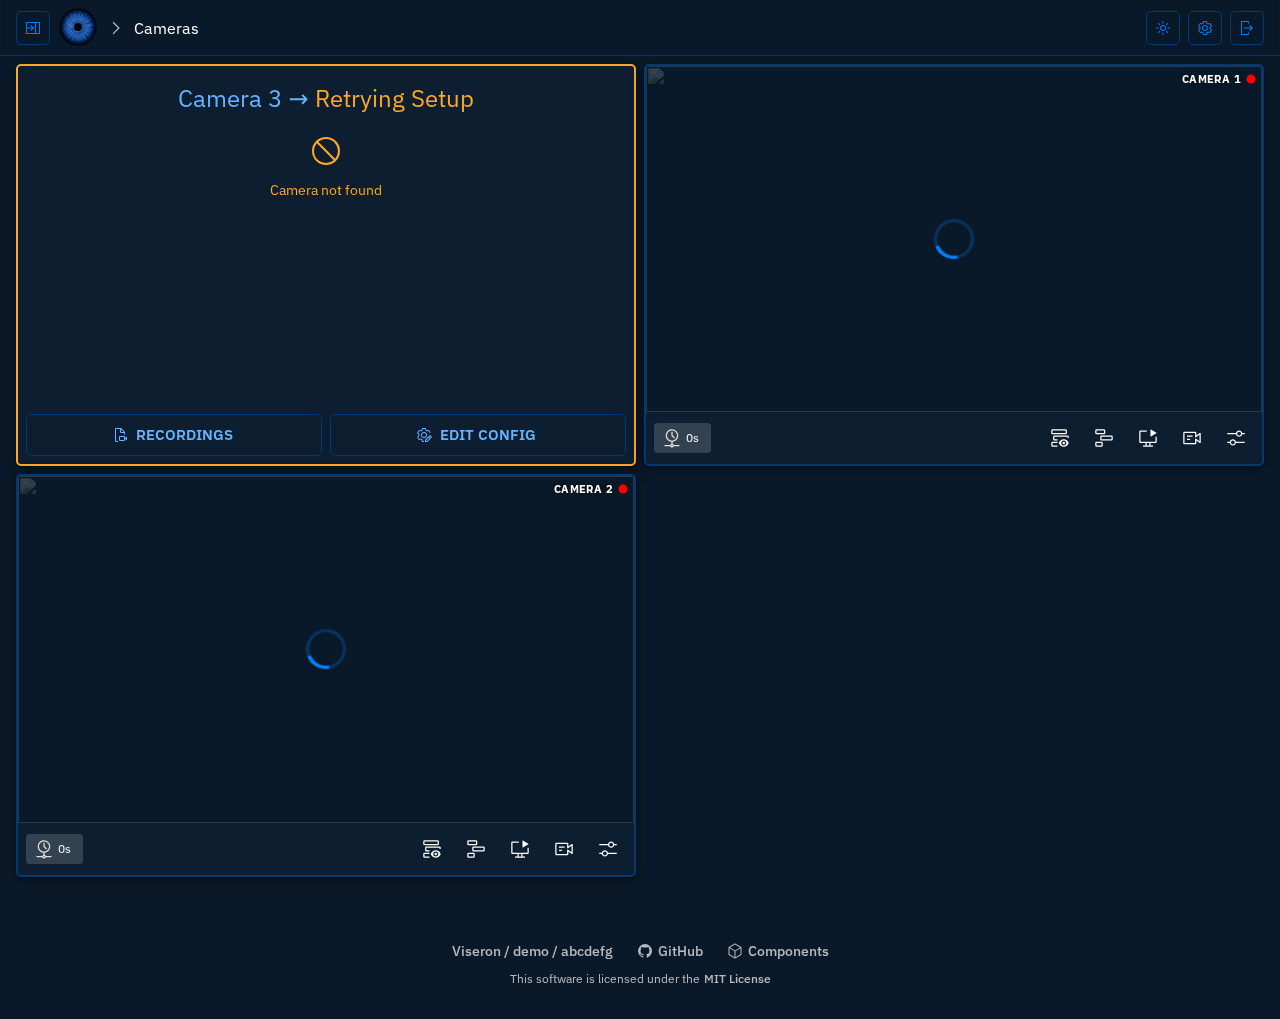
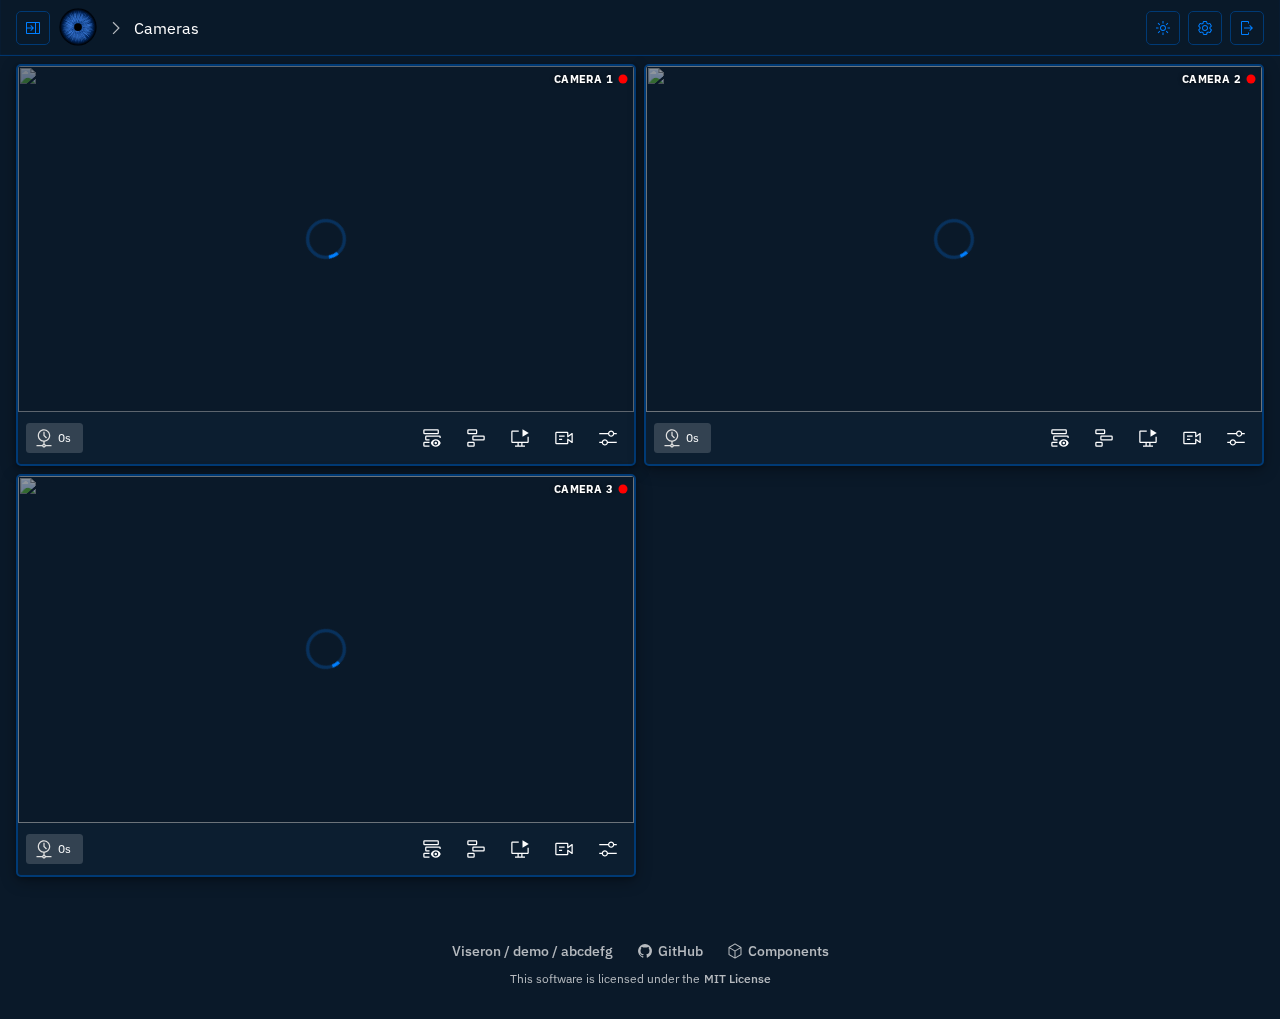
playwright screenshot recordings page

diff --git a/frontend/tests/mocks/handlers.ts b/frontend/tests/mocks/handlers.ts
@@ -66,7 +66,7 @@ export const handlers = [
         name: "Camera 1",
         width: 1920,
         height: 1080,
-        access_token: "testtoken1",
+        access_token: "testtoken",
         mainstream: {
           width: 1920,
           height: 1080,
@@ -87,7 +87,28 @@ export const handlers = [
         name: "Camera 2",
         width: 1920,
         height: 1080,
-        access_token: "testtoken2",
+        access_token: "testtoken",
+        mainstream: {
+          width: 1920,
+          height: 1080,
+        },
+        still_image: {
+          refresh_interval: 5,
+          available: true,
+          width: 1920,
+          height: 1080,
+        },
+        failed: false,
+        is_on: true,
+        live_stream_available: true,
+        connected: true,
+      },
+      camera3: {
+        identifier: "camera3",
+        name: "Camera 3",
+        width: 1920,
+        height: 1080,
+        access_token: "testtoken",
         mainstream: {
           width: 1920,
           height: 1080,
@@ -106,25 +127,9 @@ export const handlers = [
     };
     return HttpResponse.json(cameras, { status: 200 });
   }),
-  http.get(`${API_BASE_URL}/cameras/failed`, () => {
-    const cameras: types.FailedCameras = {
-      camera3: {
-        identifier: "camera3",
-        name: "Camera 3",
-        width: 1920,
-        height: 1080,
-        mainstream: {
-          width: 1920,
-          height: 1080,
-        },
-        live_stream_available: true,
-        error: "Camera not found",
-        retrying: true,
-        failed: true,
-      },
-    };
-    return HttpResponse.json(cameras, { status: 200 });
-  }),
+  http.get(`${API_BASE_URL}/cameras/failed`, () =>
+    HttpResponse.json({}, { status: 200 }),
+  ),
   // Single camera info
   http.get(`${API_BASE_URL}/camera/camera1`, () => {
     const camera: types.Camera = {
@@ -132,7 +137,7 @@ export const handlers = [
       name: "Camera 1",
       width: 1920,
       height: 1080,
-      access_token: "testtoken1",
+      access_token: "testtoken",
       mainstream: {
         width: 1920,
         height: 1080,
@@ -156,7 +161,7 @@ export const handlers = [
       name: "Camera 2",
       width: 1920,
       height: 1080,
-      access_token: "testtoken2",
+      access_token: "testtoken",
       mainstream: {
         width: 1920,
         height: 1080,
@@ -174,4 +179,129 @@ export const handlers = [
     };
     return HttpResponse.json(camera, { status: 200 });
   }),
+  http.get(`${API_BASE_URL}/camera/camera3`, () => {
+    const camera: types.Camera = {
+      identifier: "camera3",
+      name: "Camera 3",
+      width: 1920,
+      height: 1080,
+      access_token: "testtoken",
+      mainstream: {
+        width: 1920,
+        height: 1080,
+      },
+      still_image: {
+        refresh_interval: 5,
+        available: true,
+        width: 1920,
+        height: 1080,
+      },
+      failed: false,
+      is_on: true,
+      live_stream_available: true,
+      connected: true,
+    };
+    return HttpResponse.json(camera, { status: 200 });
+  }),
+  http.get(`${API_BASE_URL}/camera/camera*/snapshot`, () =>
+    // Return an empty image
+    HttpResponse.arrayBuffer(new ArrayBuffer(0), {
+      status: 200,
+    }),
+  ),
+
+  // Recordings list
+  http.get(`${API_BASE_URL}/recordings/camera1`, () => {
+    const today = dayjs.utc().format("YYYY-MM-DD");
+    const yesterday = dayjs.utc().subtract(1, "day").format("YYYY-MM-DD");
+    return HttpResponse.json(
+      {
+        [today]: {
+          "2": {
+            id: 2,
+            camera_identifier: "camera1",
+            start_time: dayjs.utc().subtract(1, "hour").toISOString(),
+            start_timestamp: dayjs.utc().subtract(1, "hour").unix(),
+            end_time: dayjs.utc().subtract(55, "minute").toISOString(),
+            end_timestamp: dayjs.utc().subtract(55, "minute").unix(),
+            trigger_type: "object",
+            trigger_id: null,
+            thumbnail_path: "/files/tier1/thumbnails/camera1/2.jpg",
+            hls_url: "/api/v1/hls/camera1/2/index.m3u8",
+          },
+        },
+        [yesterday]: {
+          "1": {
+            id: 1,
+            camera_identifier: "camera1",
+            start_time: dayjs.utc().subtract(1, "day").toISOString(),
+            start_timestamp: dayjs.utc().subtract(1, "day").unix(),
+            end_time: dayjs
+              .utc()
+              .subtract(1, "day")
+              .add(5, "minute")
+              .toISOString(),
+            end_timestamp: dayjs
+              .utc()
+              .subtract(1, "day")
+              .add(5, "minute")
+              .unix(),
+            trigger_type: "motion",
+            trigger_id: null,
+            thumbnail_path: "/files/tier1/thumbnails/camera1/1.jpg",
+            hls_url: "/api/v1/hls/camera1/1/index.m3u8",
+          },
+        },
+      } as types.RecordingsCamera,
+      { status: 200 },
+    );
+  }),
+  http.get(`${API_BASE_URL}/recordings/camera2`, () => {
+    const today = dayjs.utc().format("YYYY-MM-DD");
+    const yesterday = dayjs.utc().subtract(1, "day").format("YYYY-MM-DD");
+    return HttpResponse.json(
+      {
+        [today]: {
+          "4": {
+            id: 4,
+            camera_identifier: "camera2",
+            start_time: dayjs.utc().subtract(1, "hour").toISOString(),
+            start_timestamp: dayjs.utc().subtract(1, "hour").unix(),
+            end_time: dayjs.utc().subtract(55, "minute").toISOString(),
+            end_timestamp: dayjs.utc().subtract(55, "minute").unix(),
+            trigger_type: "object",
+            trigger_id: null,
+            thumbnail_path: "/files/tier1/thumbnails/camera2/4.jpg",
+            hls_url: "/api/v1/hls/camera2/4/index.m3u8",
+          },
+        },
+        [yesterday]: {
+          "3": {
+            id: 3,
+            camera_identifier: "camera2",
+            start_time: dayjs.utc().subtract(1, "day").toISOString(),
+            start_timestamp: dayjs.utc().subtract(1, "day").unix(),
+            end_time: dayjs
+              .utc()
+              .subtract(1, "day")
+              .add(5, "minute")
+              .toISOString(),
+            end_timestamp: dayjs
+              .utc()
+              .subtract(1, "day")
+              .add(5, "minute")
+              .unix(),
+            trigger_type: "motion",
+            trigger_id: null,
+            thumbnail_path: "/files/tier1/thumbnails/camera2/3.jpg",
+            hls_url: "/api/v1/hls/camera2/3/index.m3u8",
+          },
+        },
+      } as types.RecordingsCamera,
+      { status: 200 },
+    );
+  }),
+  http.get(`${API_BASE_URL}/recordings/camera3`, () =>
+    HttpResponse.json({}, { status: 200 }),
+  ),
 ];

diff --git a/frontend/e2e/playwright.setup.ts b/frontend/e2e/playwright.setup.ts
@@ -1,6 +1,6 @@
 import { type NetworkFixture, createNetworkFixture } from "@msw/playwright";
 import { test as testBase } from "@playwright/test";
-import { handlers } from "tests/mocks/handlers";
+import { API_BASE_URL, handlers } from "tests/mocks/handlers";
 import { wsHandlers } from "tests/mocks/wsHandlers";
 
 interface Fixtures {
@@ -13,7 +13,18 @@ export const test = testBase.extend<Fixtures>({
   }),
 });
 
-test.beforeEach(async ({ context }) => {
+test.beforeEach(async ({ page, context }) => {
+  // Listen to console logs
+  page.on("console", (msg) => console.log(`[console] ${msg.text()}`));
+
+  // Log network responses
+  page.on("response", (res) => {
+    if (res.url().includes(API_BASE_URL) || res.url().includes("/files/"))
+      console.log(
+        `[response] ${res.status()} ${res.url()} (${res.request().method()})`,
+      );
+  });
+
   // Set cookies for spoofin authentication
   await context.addCookies([
     {

diff --git a/frontend/e2e/tests/docs.spec.ts b/frontend/e2e/tests/docs.spec.ts
@@ -1,11 +1,21 @@
-import { Page } from "@playwright/test";
+import { Page, expect } from "@playwright/test";
 import { test } from "e2e/playwright.setup";
 
 test("Screenshot cameras page", async ({ page }: { page: Page }) => {
-  await page.goto("/");
-  await page.waitForSelector('text="Camera 1"');
+  await page.goto("/", { waitUntil: "domcontentloaded" });
+  await expect(page.getByText(/Camera [0-9]/)).toHaveCount(3);
   await page.screenshot({
     path: "../docs/static/img/ui/cameras/main.png",
+    fullPage: true,
+  });
+});
+
+test("Screenshot recordings page", async ({ page }: { page: Page }) => {
+  await page.goto("/#/recordings", { waitUntil: "domcontentloaded" });
+  await expect(page.getByText(/Camera [0-9]/)).toHaveCount(3);
+  await expect(page.getByText(/Latest recording/)).toHaveCount(2);
+  await page.screenshot({
+    path: "../docs/static/img/ui/recordings/main.png",
     fullPage: true,
   });
 });

diff --git a/frontend/src/lib/types.ts b/frontend/src/lib/types.ts
@@ -144,7 +144,7 @@ export interface Recording {
   end_time: string;
   end_timestamp: number;
   trigger_type: string;
-  trigger_id: number;
+  trigger_id: number | null;
   thumbnail_path: string;
   hls_url: string;
 }

diff --git a/frontend/e2e/playwright.config.ts b/frontend/e2e/playwright.config.ts
@@ -11,6 +11,9 @@ export default defineConfig({
     timezoneId: "UTC",
     video: "off",
   },
+  expect: {
+    timeout: 10000,
+  },
   projects: [
     {
       name: "chromium",

diff --git a/docs/docs/documentation.md b/docs/docs/documentation.md
@@ -60,7 +60,7 @@ Viserons features include, but not limited to the following:
 
 ### Recordings view
 
-<img src="/img/screenshots/Viseron-screenshot-recordings.png" alt-text="Recordings view"/>
+<img src="/img/ui/recordings/main.png" alt-text="Recordings view"/>
 
 ### Events view
 
